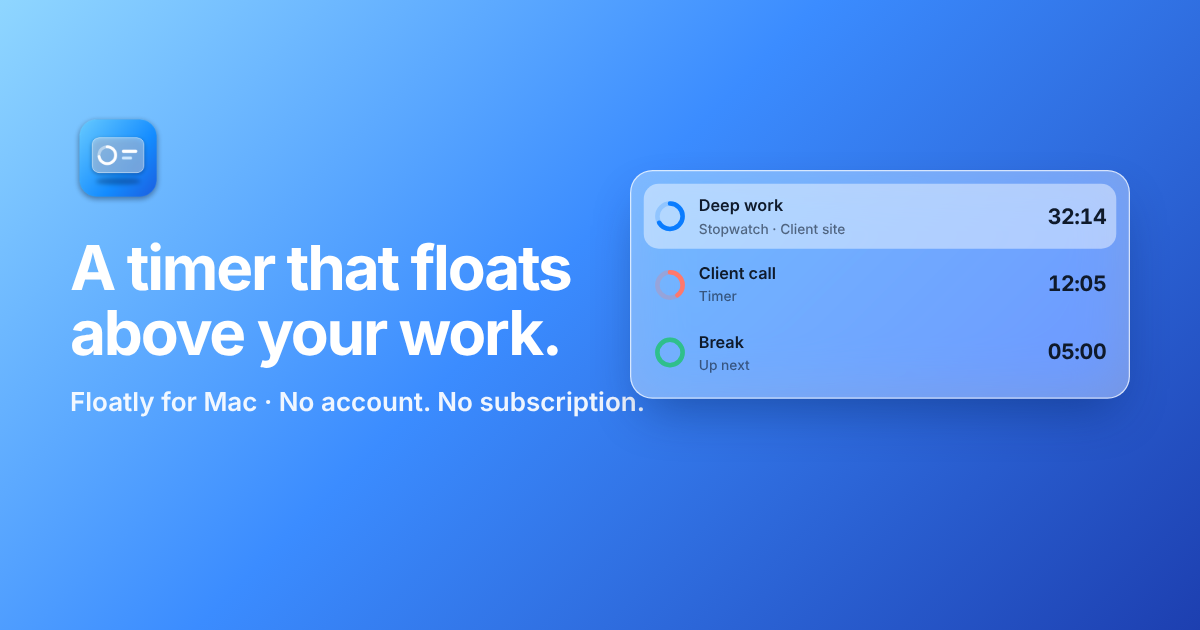
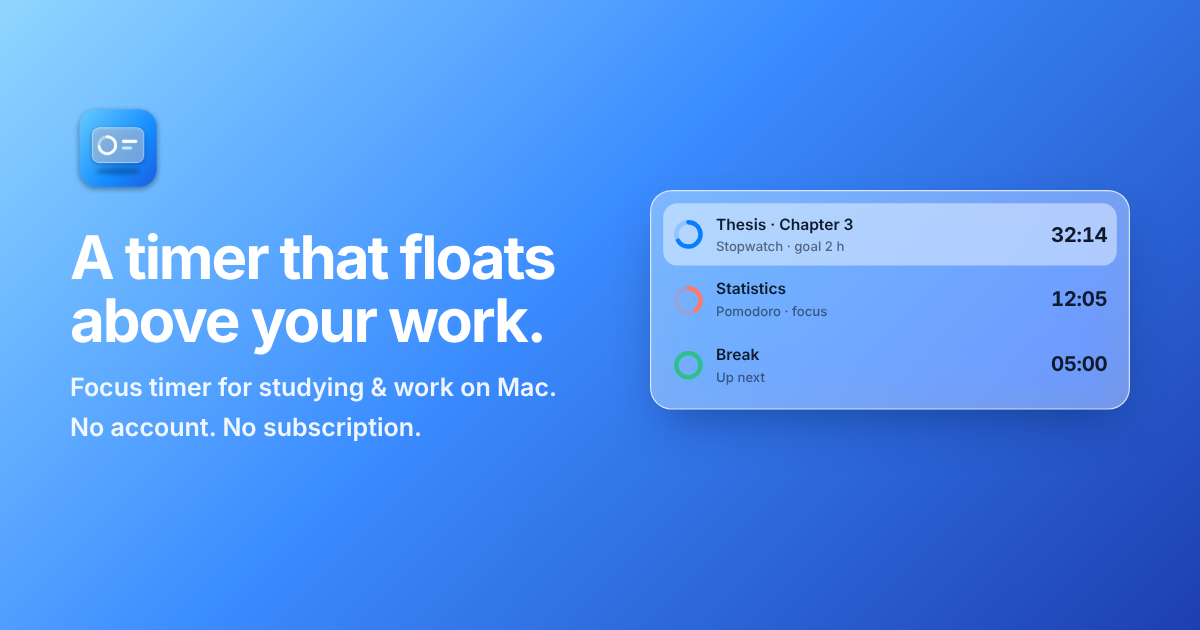
Add files via upload

Changed region(s): [[0.0617, 0.2714, 0.9558, 0.6937], [0.0617, 0.1508, 0.1542, 0.3317]]

diff --git a/index.html b/index.html
@@ -3,9 +3,9 @@
 <head>
 <meta charset="utf-8">
 <meta name="viewport" content="width=device-width, initial-scale=1">
-<title>Floatly: Floating Timer & Work Hours Tracker for Mac</title>
-<meta name="description" content="A floating timer for Mac that stays on top of your work. Timers, stopwatches, Pomodoro routines and a work hours log with CSV export. No account, no subscription.">
-<meta name="keywords" content="floating timer mac, always on top timer, pomodoro timer mac, work hours tracker mac, menu bar timer, time tracker for freelancers">
+<title>Floatly: Floating Focus Timer for Studying &amp; Work on Mac</title>
+<meta name="description" content="A floating focus timer for Mac that stays on top of your notes and work. Pomodoro, stopwatches, daily study goals and a log of your hours. No account, no subscription.">
+<meta name="keywords" content="study timer mac, pomodoro timer mac, floating timer mac, always on top timer, focus timer for students, study tracker, work hours tracker mac, menu bar timer">
 <meta name="theme-color" content="#0a7cff">
 <link rel="icon" href="favicon.png">
 <link rel="apple-touch-icon" href="apple-touch-icon.png">
@@ -13,7 +13,7 @@
 <!-- Social sharing preview -->
 <meta property="og:type" content="website">
 <meta property="og:title" content="Floatly: a timer that floats above your work">
-<meta property="og:description" content="Timers, stopwatches and a work log in a small see-through box on your Mac. No account. No subscription.">
+<meta property="og:description" content="A focus timer for studying and work that floats over your Mac. Pomodoro, stopwatches and a log of your hours. No account. No subscription.">
 <meta property="og:image" content="https://floatlyapp.github.io/og.png">
 <meta property="og:url" content="https://floatlyapp.github.io/">
 <meta name="twitter:card" content="summary_large_image">
@@ -30,21 +30,21 @@
   </nav>
 
   <header class="hero">
-    <span class="eyebrow">Floating timer &amp; work log for Mac</span>
+    <span class="eyebrow">Focus timer for studying &amp; work on Mac</span>
     <h1>A timer that <span>floats above your&nbsp;work.</span></h1>
-    <p class="lead">Timers, stopwatches and a work log in a small see-through box in the corner of your Mac. <strong>No account. No subscription.</strong></p>
+    <p class="lead">Timers, stopwatches and a log of your study and work hours, in a small see-through box in the corner of your Mac. <strong>No account. No subscription.</strong></p>
     <div class="cta">
       <!-- At launch: change this <span> into <a href="https://apps.apple.com/app/idXXXX?pt=XXXX&ct=website"> -->
       <span class="badge">
         <svg viewBox="0 0 24 24" fill="none" stroke="currentColor" stroke-width="2" stroke-linecap="round" stroke-linejoin="round"><circle cx="12" cy="13" r="8"/><path d="M12 9v4l2.5 2M9 2h6"/></svg>
         Coming soon to the Mac App Store
       </span>
-      <span class="small">Free to download · Pro €9.99 once · macOS 13 Ventura or later</span>
+      <span class="small">Free to download · Pro €9.99 once · <a href="#pricing">Compare Free and Pro</a></span>
     </div>
 
     <div class="stage" role="img" aria-label="A Mac desktop with the Floatly box floating in the top-right corner, showing three timers over a document window">
       <div class="menubar">
-        <b>Pages</b><span>File</span><span>Edit</span><span>View</span>
+        <b>Notes</b><span>File</span><span>Edit</span><span>View</span>
         <span class="right"><span class="pill">32:14</span><span>🔋</span><span>Fri 10:42</span></span>
       </div>
       <div class="win">
@@ -59,11 +59,11 @@
       <div class="float">
         <div class="row sw">
           <svg class="ring" viewBox="0 0 36 36"><circle cx="18" cy="18" r="14" fill="none" stroke="rgba(10,124,255,.2)" stroke-width="5"/><circle cx="18" cy="18" r="14" fill="none" stroke="#0a7cff" stroke-width="5" stroke-linecap="round" stroke-dasharray="58 88" transform="rotate(-90 18 18)"/></svg>
-          <span class="name">Deep work<small>Stopwatch · Client site</small></span><span class="t">32:14</span>
+          <span class="name">Thesis · Chapter 3<small>Stopwatch · goal 2 h</small></span><span class="t">32:14</span>
         </div>
         <div class="row">
           <svg class="ring" viewBox="0 0 36 36"><circle cx="18" cy="18" r="14" fill="none" stroke="rgba(255,120,107,.25)" stroke-width="5"/><circle cx="18" cy="18" r="14" fill="none" stroke="#ff786b" stroke-width="5" stroke-linecap="round" stroke-dasharray="35 88" transform="rotate(-90 18 18)"/></svg>
-          <span class="name">Client call<small>Timer</small></span><span class="t">12:05</span>
+          <span class="name">Statistics<small>Pomodoro · focus</small></span><span class="t">12:05</span>
         </div>
         <div class="row">
           <svg class="ring" viewBox="0 0 36 36"><circle cx="18" cy="18" r="14" fill="none" stroke="rgba(69,204,158,.3)" stroke-width="5"/><circle cx="18" cy="18" r="14" fill="none" stroke="#2fbf8c" stroke-width="5" stroke-linecap="round" stroke-dasharray="88 88" transform="rotate(-90 18 18)"/></svg>
@@ -80,27 +80,61 @@
     </div>
   </header>
 
-  <!-- Freelancers -->
+  <!-- Pricing -->
+  <section class="block" id="pricing">
+    <div class="kicker">Pricing</div>
+    <h2 class="big">Free to start. Pro for €9.99, once.</h2>
+    <p class="sub">No subscription and no renewals. Pro works on every Mac signed in to your Apple Account.</p>
+    <div class="matrix-wrap">
+      <table class="matrix">
+        <thead>
+          <tr><th scope="col"></th>
+            <th scope="col">Free<span class="pr">€0</span></th>
+            <th scope="col" class="procol">Pro<span class="pr">€9.99 <small>once</small></span></th></tr>
+        </thead>
+        <tbody>
+          <tr><th scope="row">Floating box and menu bar timer</th><td class="y"><span class="ck">✓</span></td><td data-pro class="y"><span class="ck">✓</span></td></tr>
+          <tr><th scope="row">Hide the box with one click</th><td class="y"><span class="ck">✓</span></td><td data-pro class="y"><span class="ck">✓</span></td></tr>
+          <tr><th scope="row">Stopwatches pause when your Mac sleeps</th><td class="y"><span class="ck">✓</span></td><td data-pro class="y"><span class="ck">✓</span></td></tr>
+          <tr><th scope="row">Time's-up sound and notification</th><td class="y"><span class="ck">✓</span></td><td data-pro class="y"><span class="ck">✓</span></td></tr>
+          <tr><th scope="row">Timers</th><td>up to 3</td><td data-pro class="y">unlimited</td></tr>
+          <tr><th scope="row">Stopwatches</th><td>1</td><td data-pro class="y">unlimited</td></tr>
+          <tr><th scope="row">Work log with charts and comparisons</th><td class="n">–</td><td data-pro class="y"><span class="ck">✓</span></td></tr>
+          <tr><th scope="row">Daily goals per course or project</th><td class="n">–</td><td data-pro class="y"><span class="ck">✓</span></td></tr>
+          <tr><th scope="row">CSV export for invoices and timesheets</th><td class="n">–</td><td data-pro class="y"><span class="ck">✓</span></td></tr>
+          <tr><th scope="row">Routines: Pomodoro, workouts, your own</th><td class="n">–</td><td data-pro class="y"><span class="ck">✓</span></td></tr>
+          <tr><th scope="row">Asks before counting time you were away</th><td class="n">–</td><td data-pro class="y"><span class="ck">✓</span></td></tr>
+          <tr><th scope="row">Hides during screen sharing and in full screen</th><td class="n">–</td><td data-pro class="y"><span class="ck">✓</span></td></tr>
+          <tr><th scope="row">Snooze and ⌥⌘T shortcut</th><td class="n">–</td><td data-pro class="y"><span class="ck">✓</span></td></tr>
+          <tr><th scope="row">Colour themes and transparency</th><td class="n">–</td><td data-pro class="y"><span class="ck">✓</span></td></tr>
+          <tr><th scope="row">Sounds</th><td>1</td><td data-pro class="y">14 + 1-min warning, hourly chime</td></tr>
+        </tbody>
+      </table>
+    </div>
+    <p class="small" style="margin-top:12px">Prices are set by the App Store and may differ slightly by country.</p>
+  </section>
+
+  <!-- Students -->
   <section class="block split">
     <div>
-      <div class="kicker">For freelancers who bill by the hour</div>
-      <h2 class="big">See exactly where the day went.</h2>
-      <p class="sub">Start a stopwatch per client or task. Floatly logs every minute, so invoicing is a copy-paste, not a guess.</p>
+      <div class="kicker">For students</div>
+      <h2 class="big">Study sessions you can actually see.</h2>
+      <p class="sub">Put a Pomodoro over your lecture notes, set a daily goal for each course, and see at the end of the week where your study hours went.</p>
       <ul class="checks">
-        <li>Hours per task by day, week and month, with "vs last week" <span class="pro">PRO</span></li>
-        <li>Export any period to CSV for invoices and timesheets <span class="pro">PRO</span></li>
-        <li>Stopwatches pause when your Mac sleeps or locks, so your hours stay honest</li>
-        <li>Stepped away? Floatly asks before counting that time <span class="pro">PRO</span></li>
+        <li>The countdown floats over your notes, slides and browser, so focus time stays visible</li>
+        <li>Daily goals like "2 hours of statistics", with a ring that fills up <span class="pro">PRO</span></li>
+        <li>Hours per course and thesis by day, week and month <span class="pro">PRO</span></li>
+        <li>Stopwatches pause when you close the lid, so a forgotten timer never turns into a 6-hour "study session"</li>
       </ul>
     </div>
-    <div class="panel" aria-label="Example work log with a weekly bar chart">
-      <strong>This week</strong> <span class="small">· 31 h 20 min · ↑ 12% vs last week</span>
-      <div class="chart"><div style="height:62%"></div><div style="height:80%"></div><div style="height:48%"></div><div style="height:92%"></div><div class="today" style="height:70%"></div><div style="height:6%;opacity:.35"></div><div style="height:4%;opacity:.35"></div></div>
+    <div class="panel" aria-label="Example study log with a weekly bar chart">
+      <strong>This week</strong> <span class="small">· 20 h 15 min studied · ↑ 18% vs last week</span>
+      <div class="chart"><div style="height:55%"></div><div style="height:78%"></div><div style="height:40%"></div><div style="height:90%"></div><div class="today" style="height:66%"></div><div style="height:30%;opacity:.5"></div><div style="height:8%;opacity:.35"></div></div>
       <div class="days"><span>Mon</span><span>Tue</span><span>Wed</span><span>Thu</span><span>Fri</span><span>Sat</span><span>Sun</span></div>
       <div class="tasks">
-        <p><span><i class="dot" style="background:#0a7cff"></i>Client site redesign</span><b>14 h 05 min</b></p>
-        <p><span><i class="dot" style="background:#ff786b"></i>Calls &amp; email</span><b>6 h 40 min</b></p>
-        <p><span><i class="dot" style="background:#2fbf8c"></i>Thesis</span><b>10 h 35 min</b></p>
+        <p><span><i class="dot" style="background:#0a7cff"></i>Thesis</span><b>9 h 20 min</b></p>
+        <p><span><i class="dot" style="background:#ff786b"></i>Statistics</span><b>6 h 45 min</b></p>
+        <p><span><i class="dot" style="background:#2fbf8c"></i>Biology reading</span><b>4 h 10 min</b></p>
       </div>
     </div>
   </section>
@@ -125,7 +159,19 @@
         <div>Focus<b>25:00</b></div>
         <div>Long<b>15:00</b></div>
       </div>
-      <p class="small" style="margin:14px 0 0">Focus time goes straight into your work log.</p>
+      <p class="small" style="margin:14px 0 0">Focus time goes straight into your log.</p>
+    </div>
+  </section>
+
+  <!-- Freelancers (short) -->
+  <section class="block">
+    <div class="panel mini">
+      <div>
+        <div class="kicker">Also for freelancers</div>
+        <h3>Bill your hours without guessing.</h3>
+        <p class="small">Start a stopwatch per client, then export any day, week or month to CSV for invoices and timesheets. <span class="pro">PRO</span></p>
+      </div>
+      <svg viewBox="0 0 24 24" fill="none" stroke="currentColor" stroke-width="1.8" stroke-linecap="round" stroke-linejoin="round" aria-hidden="true"><path d="M14 3H7a2 2 0 0 0-2 2v14a2 2 0 0 0 2 2h10a2 2 0 0 0 2-2V8z"/><path d="M14 3v5h5M9 13h6M9 17h4"/></svg>
     </div>
   </section>
 
@@ -147,7 +193,7 @@
       <div class="card">
         <div class="ic"><svg viewBox="0 0 24 24" fill="none" stroke="currentColor" stroke-width="2" stroke-linecap="round" stroke-linejoin="round"><path d="M20.5 13.5A8.5 8.5 0 1 1 10.5 3.5a6.5 6.5 0 0 0 10 10z"/></svg></div>
         <h3>Honest hours</h3>
-        <p>Stopwatches pause when your Mac sleeps, locks or shuts down. No more 9-hour "meetings" by accident.</p>
+        <p>Stopwatches pause when your Mac sleeps, locks or shuts down. No more 6-hour "study sessions" by accident.</p>
       </div>
       <div class="card">
         <div class="ic"><svg viewBox="0 0 24 24" fill="none" stroke="currentColor" stroke-width="2" stroke-linecap="round" stroke-linejoin="round"><path d="M4 20V11M10 20V5M16 20v-7M2 20h20"/></svg></div>
@@ -167,45 +213,6 @@
     </div>
   </section>
 
-  <!-- Pricing -->
-  <section class="block" id="pricing">
-    <div class="kicker">Pricing</div>
-    <h2 class="big">Pay once. Keep it forever.</h2>
-    <p class="sub">Start free. Upgrade to Pro with a single purchase, with no subscription and no renewals. Pro works on every Mac signed in to your Apple Account.</p>
-    <div class="pricing">
-      <div class="plan">
-        <h3>Free</h3>
-        <div class="price">€0</div>
-        <span class="small">Free forever</span>
-        <ul>
-          <li>Up to 3 timers and 1 stopwatch</li>
-          <li>Floating box and menu bar timer</li>
-          <li>Hide the box with one click</li>
-          <li>Stopwatches pause when your Mac sleeps</li>
-          <li>Time's-up sound and notification</li>
-          <li>3 timer colours</li>
-          <li class="no">Work log, routines and themes are Pro</li>
-        </ul>
-      </div>
-      <div class="plan p">
-        <span class="tag">One-time purchase</span>
-        <h3>Pro</h3>
-        <div class="price">€9.99 <small>once</small></div>
-        <span class="small">Everything in Free, plus:</span>
-        <ul>
-          <li>Unlimited timers and stopwatches</li>
-          <li>Work log with charts, comparisons and daily goals</li>
-          <li>CSV export for invoices and timesheets</li>
-          <li>Routines: Pomodoro, workouts, your own</li>
-          <li>Asks before counting time you were away</li>
-          <li>Hides during screen sharing and in full screen, snooze, ⌥⌘T</li>
-          <li>Colour themes, transparency, 14 sounds, 1-minute warning, hourly chime</li>
-        </ul>
-      </div>
-    </div>
-    <p class="small" style="margin-top:12px">Prices are set by the App Store and may differ slightly by country.</p>
-  </section>
-
   <!-- FAQ -->
   <section class="block narrow" id="faq">
     <div class="kicker">FAQ</div>
@@ -220,7 +227,7 @@
 
   <div class="maker narrow" style="margin-left:auto;margin-right:auto">
     <img src="icon.png" alt="">
-    <p><strong>Made by an independent developer in Finland</strong> who wanted a timer that stays in sight, without another account or subscription. Ideas and feedback are very welcome: <a href="mailto:floatly.focusapp@gmail.com">floatly.focusapp@gmail.com</a></p>
+    <p><strong>Made by a student in Finland</strong> who wanted to make focus time visible. I built the timer I wished I had: always in sight, honest about the hours, and without a subscription. Ideas and feedback are very welcome: <a href="mailto:floatly.focusapp@gmail.com">floatly.focusapp@gmail.com</a></p>
   </div>
 
   <footer>

diff --git a/style.css b/style.css
@@ -117,6 +117,12 @@ h2.big { font-size: clamp(28px, 4vw, 40px); line-height: 1.12; letter-spacing: -
 .steps div b { display: block; font-size: 20px; font-variant-numeric: tabular-nums; }
 .steps div.now { background: linear-gradient(140deg, var(--accent2), var(--accent)); color: #fff; }
 
+.panel.mini { display: flex; align-items: center; gap: 24px; padding: 26px 28px; }
+.panel.mini h3 { font-size: 22px; letter-spacing: -.015em; margin: 6px 0 6px; }
+.panel.mini p { margin: 0; font-size: 16px; }
+.panel.mini svg { width: 64px; height: 64px; flex: none; margin-left: auto; color: var(--accent); opacity: .85; }
+@media (max-width: 560px) { .panel.mini svg { display: none; } }
+
 /* feature grid */
 .grid { display: grid; grid-template-columns: repeat(3, 1fr); gap: 14px; margin-top: 28px; }
 .card { background: var(--card); border: 1px solid var(--line); border-radius: 20px; padding: 22px;
@@ -128,18 +134,27 @@ h2.big { font-size: clamp(28px, 4vw, 40px); line-height: 1.12; letter-spacing: -
 .card p { margin: 0; color: var(--muted); font-size: 15px; }
 .card.hi { border-color: color-mix(in srgb, var(--accent) 45%, transparent); }
 
-/* pricing */
-.pricing { display: grid; grid-template-columns: 1fr 1fr; gap: 16px; margin-top: 28px; }
-.plan { background: var(--card); border: 1px solid var(--line); border-radius: 22px; padding: 26px; }
-.plan.p { border: 1.5px solid var(--accent); box-shadow: var(--shadow); position: relative; }
-.plan h3 { margin: 0; font-size: 20px; }
-.price { font-size: 40px; font-weight: 750; letter-spacing: -.03em; margin: 6px 0 2px; }
-.price small { font-size: 16px; font-weight: 500; color: var(--muted); letter-spacing: 0; }
-.plan ul { list-style: none; padding: 0; margin: 18px 0 0; font-size: 15px; }
-.plan li { padding: 8px 0; border-top: 1px solid var(--line); }
-.plan li.no { color: var(--muted); }
-.tag { position: absolute; top: -12px; right: 20px; font-size: 12px; font-weight: 700; color: #fff; padding: 4px 10px; border-radius: 999px;
-       background: linear-gradient(120deg, var(--accent2), var(--deep)); }
+/* pricing matrix */
+.matrix-wrap { margin-top: 26px; background: var(--card); border: 1px solid var(--line); border-radius: 22px; box-shadow: var(--shadow);
+               overflow: hidden; backdrop-filter: blur(16px); -webkit-backdrop-filter: blur(16px); }
+.matrix { width: 100%; border-collapse: collapse; font-size: 15px; }
+.matrix th, .matrix td { padding: 11px 18px; border-top: 1px solid var(--line); text-align: center; }
+.matrix tbody th { text-align: left; font-weight: 500; }
+.matrix thead th { border-top: 0; font-size: 18px; padding-top: 20px; padding-bottom: 16px; vertical-align: bottom; }
+.matrix thead th .pr { display: block; font-size: 28px; font-weight: 750; letter-spacing: -.02em; }
+.matrix thead th .pr small { font-size: 14px; font-weight: 500; color: var(--muted); letter-spacing: 0; }
+.matrix th:nth-child(2), .matrix td:nth-child(2) { width: 22%; }
+.matrix th:nth-child(3), .matrix td:nth-child(3) { width: 26%; background: color-mix(in srgb, var(--accent) 8%, transparent); }
+.matrix thead .procol { color: var(--accent); }
+.matrix td.y { color: var(--accent); font-weight: 650; }
+.matrix .ck { font-size: 18px; line-height: 1; }
+.matrix td.n { color: var(--muted); opacity: .6; }
+@media (max-width: 560px) {
+  .matrix { font-size: 13.5px; }
+  .matrix th, .matrix td { padding: 9px 8px; }
+  .matrix tbody th { padding-left: 14px; }
+  .matrix thead th .pr { font-size: 21px; }
+}
 
 /* faq */
 details { background: var(--card); border: 1px solid var(--line); border-radius: 16px; padding: 14px 18px; margin: 10px 0; }
